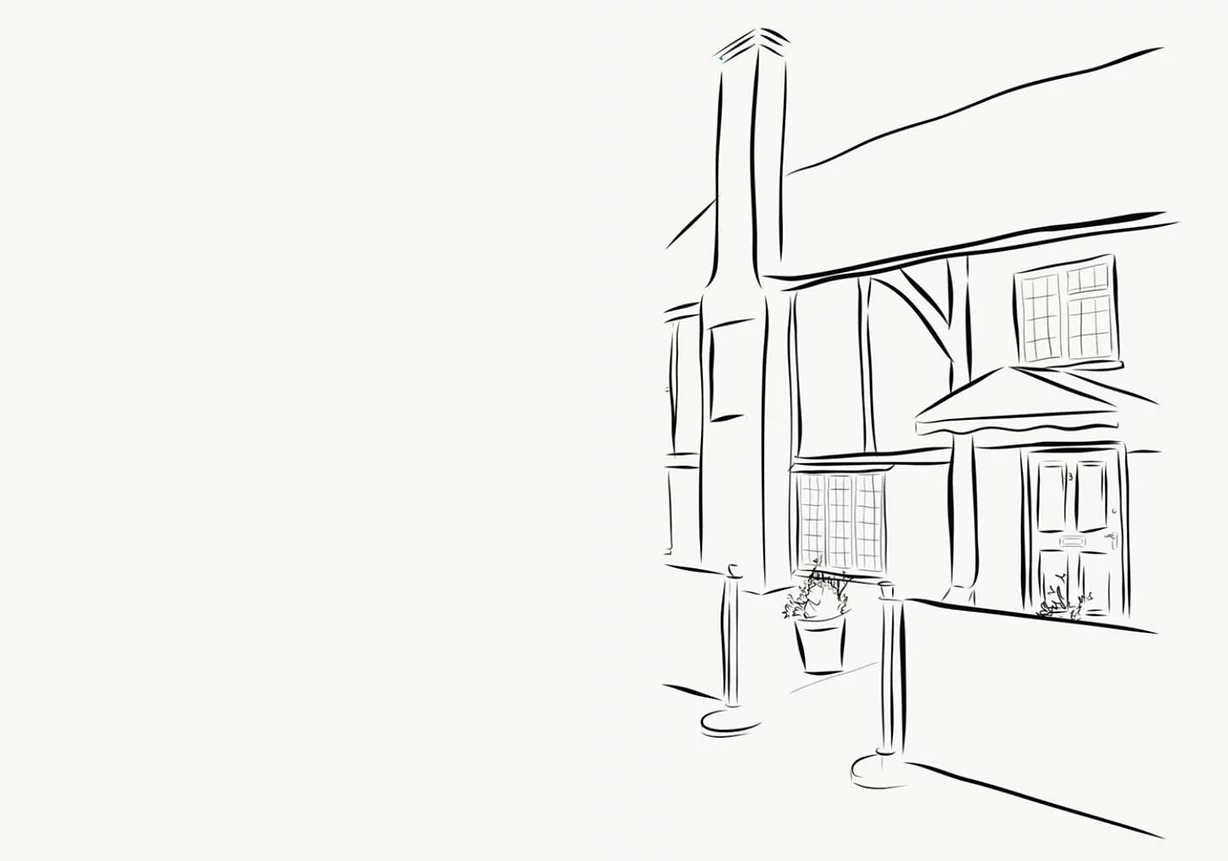
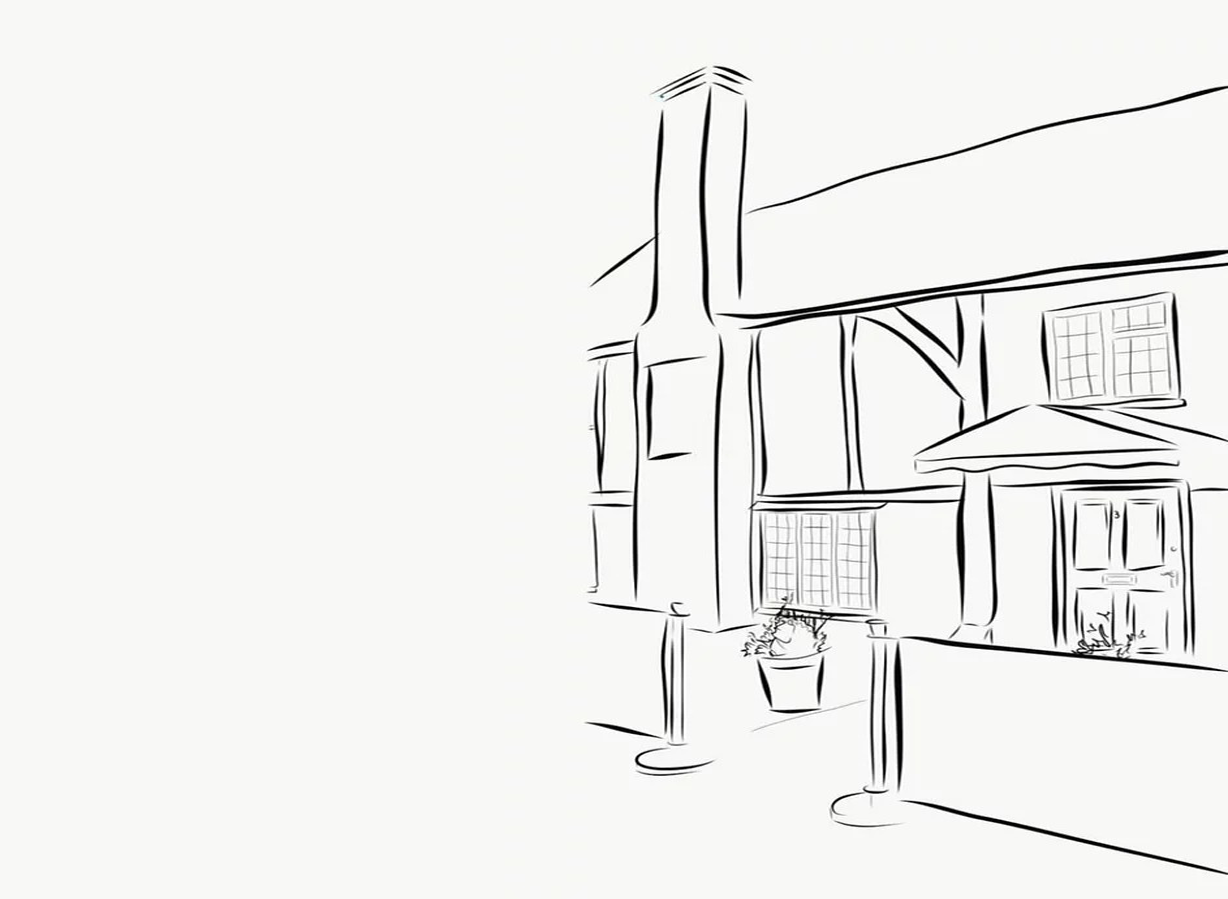
Removed the useful links section and adjusted the background image

diff --git a/index.html b/index.html
@@ -95,7 +95,7 @@
     <div class="container-fluid bg d-none d-md-block text-center pt-5">
       <hr />
       <div class="row">
-        <div class="col-3">
+        <div class="col-4">
           <h3 class="mb-3">Opening Hours</h3>
           <div class="row">
             <div class="col-md-6">
@@ -154,7 +154,7 @@
             </div>
           </div>
         </div>
-        <div class="col-3">
+        <div class="col-4">
           <h3 class="mb-4">We're Here</h3>
           <a
             href="https://www.google.com/maps/place/The+Meeting+House,+Forge+End,+The+Broadway,+Old,+Amersham+HP7+0JP/@51.6664487,-0.6145519,17z/data=!3m1!4b1!4m5!3m4!1s0x4876679dd3ddfb97:0x69ab9cdd30ed97d6!8m2!3d51.6664487!4d-0.6145519"
@@ -170,15 +170,12 @@
             HP7 0JP
           </p>
         </div>
-        <div class="col-3">
+        <div class="col-4">
           <h3 class="mb-4">Contact Us</h3>
           <a href="tel:01494721048">
             <i class="fas fa-phone-alt"></i>
           </a>
           <p>01494 721048</p>
-        </div>
-        <div class="col-3">
-          <h3 class="mb-4">Useful Links</h3>
         </div>
       </div>
       <hr />
